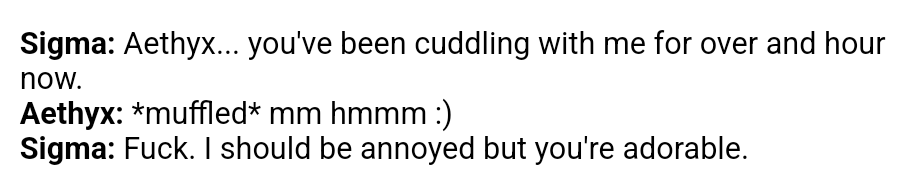
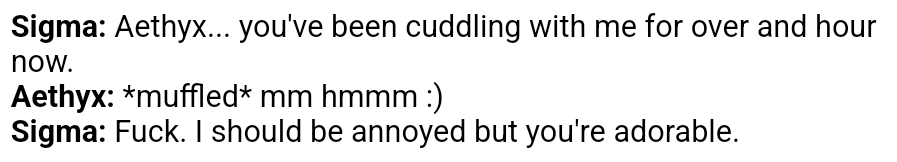
added figures

Changed region(s): [[0.0, 0.0926, 0.9989, 0.4938], [0.0, 0.7407, 0.8428, 0.9259], [0.0, 0.4938, 0.4994, 0.7099]]

diff --git a/figures.html b/figures.html
@@ -23,7 +23,7 @@
     <img src="./images/figures/PXL_20250402_190714531.jpg"/>
     <img src="./images/figures/PXL_20250402_190512315.jpg"/>
     <img src="./images/figures/PXL_20250402_190551461.jpg"/>
-    <!-- <img src="./images/figures/.jpg"/> -->
+    <img src="./images/figures/PXL_20250405_154751205.jpg"/>
     <img src="./images/figures/PXL_20250402_203345738.jpg"/>
     <img src="./images/figures/PXL_20250402_203856155.jpg"/>
     <img src="./images/figures/PXL_20250402_184438805.jpg"/>
@@ -38,7 +38,32 @@
     <img src="./images/figures/PXL_20250402_184845180.jpg"/>
     <img src="./images/figures/PXL_20250402_184931318.jpg"/>
     <img src="./images/figures/PXL_20250402_184908346.jpg"/>
-    <!-- <img src="./images/figures/.jpg"/> -->
+    <img src="./images/figures/PXL_20250405_154438528.jpg"/>
+    <img src="./images/figures/PXL_20250403_223002273.jpg"/>
+    <img src="./images/figures/PXL_20250403_220855550.jpg"/>
+    <img src="./images/figures/PXL_20250403_221010026.jpg"/>
+    <img src="./images/figures/PXL_20250403_220953429.jpg"/>
+    <img src="./images/figures/PXL_20250403_220758822.jpg"/>
+    <img src="./images/figures/PXL_20250404_010247849.jpg"/>
+    <img src="./images/figures/PXL_20250403_225539226.jpg"/>
+    <img src="./images/figures/PXL_20250403_225616434.jpg"/>
+    <img src="./images/figures/PXL_20250403_225637262.jpg"/>
+    <img src="./images/figures/PXL_20250403_225557136.jpg"/>
+    <img src="./images/figures/PXL_20250403_230140938.jpg"/>
+    <img src="./images/figures/PXL_20250403_230156509.jpg"/>
+    <img src="./images/figures/PXL_20250403_230000450.jpg"/>
+    <img src="./images/figures/PXL_20250403_230442862.jpg"/>
+    <img src="./images/figures/PXL_20250403_230535903.jpg"/>
+    <img src="./images/figures/PXL_20250403_215622765.jpg"/>
+    <img src="./images/figures/PXL_20250404_181643869.jpg"/>
+    <img src="./images/figures/PXL_20250403_215637367.jpg"/>
+    <img src="./images/figures/PXL_20250403_215743078.jpg"/>
+    <img src="./images/figures/PXL_20250403_215803135.jpg"/>
+    <img src="./images/figures/PXL_20250405_162219469.jpg"/>
+    <img src="./images/figures/PXL_20250403_215922489.jpg"/>
+    <img src="./images/figures/.jpg"/>
+    <img src="./images/figures/.jpg"/>
+    <img src="./images/figures/.jpg"/>
     <img src="./images/figures/PXL_20250402_195901089.jpg"/>
     <img src="./images/figures/PXL_20250402_195919002.jpg"/>
     <img src="./images/figures/PXL_20250402_195942032.jpg"/>
@@ -52,13 +77,16 @@
     <img src="./images/figures/PXL_20250402_200623402.jpg"/>
     <img src="./images/figures/PXL_20250402_200644473.jpg"/>
     <img src="./images/figures/PXL_20250402_200657564.jpg"/>
+    <img src="./images/figures/PXL_20250405_162836242.jpg"/>
     <img src="./images/figures/PXL_20250402_200532862.jpg"/>
     <img src="./images/figures/PXL_20250402_200442576.jpg"/>
     <img src="./images/figures/PXL_20250402_200041270.jpg"/>
     <img src="./images/figures/PXL_20250402_195752160.jpg"/>
+    <img src="./images/figures/PXL_20250403_21225499.jpg"/>
     <img src="./images/figures/PXL_20250402_183034438.jpg"/>
     <img src="./images/figures/PXL_20250402_182024442.jpg"/>
-    <!-- <img src="./images/figures/.jpg"/> --<
+    <!-- <img src="./images/figures/.jpg"/> -->
+    
   </article>
 <footer>
   <a href="" target="_blank" id="twt">Twitter</a>

diff --git a/quotes.html b/quotes.html
@@ -10,8 +10,38 @@
   <h2 class="title">SigAeth (Incorrect) Quotes</h2>
 </header>
 <article>
-  <p></p>
-  <img src="./images/quotes/"/>
+  <p>These are from the <a href="https://perchance.org/incorrect-quote-generator" target="_blank">perchance.org incorrect quote generator</a> and were chosen due to their accuracy to the SigAeth dynamic! Note: some of these may be suggestive/NSFW.</p>
+  <img src="./images/quotes/222944.png"/>
+  <img src="./images/quotes/115431.png"/>
+  <img src="./images/quotes/223352.png"/>
+  <img src="./images/quotes/115330.png"/>
+  <img src="./images/quotes/115222.png"/>
+  <img src="./images/quotes/115313.png"/>
+  <img src="./images/quotes/222008.png"/>
+  <img src="./images/quotes/223910.png"/>
+  <img src="./images/quotes/224050.png"/>
+  <img src="./images/quotes/224139.png"/>
+  <img src="./images/quotes/230412.png"/>
+  <img src="./images/quotes/230452.png"/>
+  <img src="./images/quotes/231043.png"/>
+  <img src="./images/quotes/231057.png"/>
+  <img src="./images/quotes/231116.png"/>
+  <img src="./images/quotes/231501.png"/>
+  <img src="./images/quotes/231545.png"/>
+  <img src="./images/quotes/231933.png"/>
+  <img src="./images/quotes/232305.png"/>
+  <img src="./images/quotes/232444.png"/>
+  <img src="./images/quotes/232653.png"/>
+  <img src="./images/quotes/233021.png"/>
+  <!--
+  <img src="./images/quotes/.png"/>
+  <img src="./images/quotes/.png"/>
+  <img src="./images/quotes/.png"/>
+  <img src="./images/quotes/.png"/>
+  <img src="./images/quotes/.png"/>
+  -->
+  <img src="./images/quotes/221943.png"/>
+  <img src="./images/quotes/221923.png"/>
 </article>
 <footer>
   <a href="" target="_blank" id="twt">Twitter</a>

diff --git a/photos.html b/photos.html
@@ -197,6 +197,19 @@
       <img src="./images/photos/PXL_20250330_232550065.jpg"/>
       <img src="./images/photos/PXL_20250330_233749235.jpg"/>
     <br><hr><br>
+  <figure>
+    <img src="./images/photos/PXL_20250404_233613945.jpg"/>
+    <img src="./images/photos/PXL_20250405_002018959.jpg"/>
+    <img src="./images/photos/PXL_20250405_004133211.jpg"/>
+    <img src="./images/photos/PXL_20250405_003308972.jpg"/>
+    <figcaption>Asian Night Marker date!</figcaption>
+  </figure> <br>
+  <figure>
+    <img src="./images/photos/PXL_20250406_235514226.jpg"/>
+    <img src="./images/photos/PXL_20250407_000153977.jpg"/>
+    <img src="./images/photos/PXL_20250406_220945.jpg"/>
+    <figcaption>Theater date! We saw A Minecraft Movie!</figcaption>
+  </figure>
   </article>
 <footer>
   <a href="" target="_blank" id="twt">Twitter</a>
